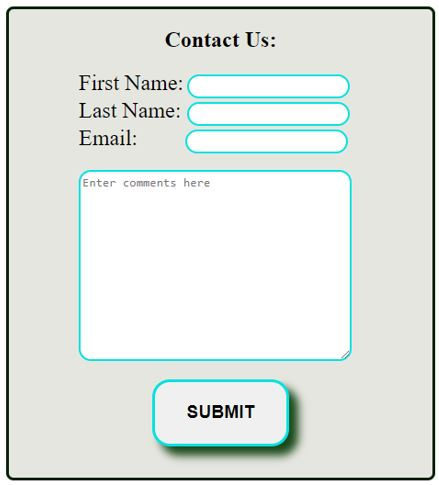
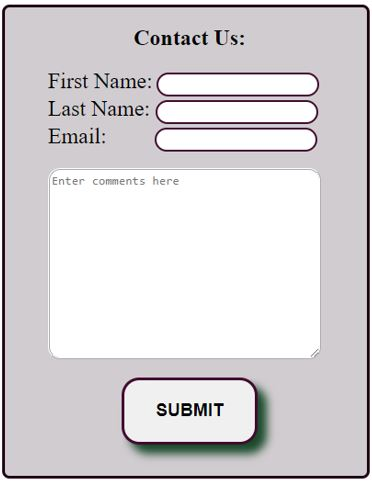
Added table project, removed old portfolio img

diff --git a/Table_Project/index.html b/Table_Project/index.html
@@ -1,0 +1,62 @@
+<!DOCTYPE html>
+<html lang="en">
+<head>
+    <meta charset="UTF-8">
+    <meta name="viewport" content="width=device-width, initial-scale=1.0">
+    <title>Low FODMAP Foods Table</title>
+    <link rel="stylesheet" href="style.css">
+</head>
+
+<body>
+    <h1>Favorite Low-FODMAP Foods</h1>
+    
+    <table>
+        <tr>
+            <th scope="row" class="group">Food Group</th>
+            <th>Examples</th>
+            <th>Notes</th>
+        </tr>
+
+        <tr>
+            <td class="group">Vegetables</td>
+            <td>Cucumbers, carrots, red peppers, potatoes, green beans, zucchini, lettuce</td>
+            <td class="note">Spring onions are allowed but only the green leafy parts in small amounts.</td>
+        </tr>
+
+        <tr class="even">
+            <td class="group">Fruits</td>
+            <td>Cantaloupe, strawberries, oranges, grapes, blueberries, bananas</td>
+            <td class="note">Fresh fruit, not canned. Keep quantities small.</td>
+        </tr>
+        <tr>
+            <td class="group">Nuts and Seeds</td>
+            <td>Almonds, peanuts, walnuts</td>
+            <td class="note">Serving size: 10 nuts</td>
+        </tr>
+        
+        <tr class="even">
+            <td class="group">Proteins</td>
+            <td>Beef, chicken, fish, pork, eggs</td>
+            <td class="note">Added sauces make these high FODMAP. Most spices okay, but never onion or garlic.</td>
+        </tr>
+
+        <tr>
+            <td class="group">Dairy</td>
+            <td>Hard cheeses, lactose-free milk and yogurt</td>
+            <td class="note">Lactose may cause same symptoms as high FODMAP foods.</td>
+        </tr>
+
+        <tr class="even">
+            <td class="group">Grains</td>
+            <td>Gluten-free pasta and bread, quinoa, corn flour, rice and rice flour, sorghum</td>
+            <td class="note">Wheat/gluten may cause same symptoms as high FODMAP foods.</td>
+        </tr>
+
+        <tr>
+            <td colspan="3">Other acceptable foods include oils, sugar as opposed to honey, and real maple syrup, all in small quantitites.</td>
+        </tr>
+
+
+    </table>
+</body>
+</html>

diff --git a/Table_Project/style.css b/Table_Project/style.css
@@ -1,0 +1,91 @@
+/* Universal Styles */
+* {
+    box-sizing: border-box;
+    margin: 0;
+    padding: 0;
+}
+
+html {
+    font-size: 16px;
+    background-color: hsl(0, 0%, 98%);
+    color: hsl(180, 48%, 5%);
+}
+
+/* Body Styling */
+
+h1 {
+    text-align: center;
+    margin: 2rem 0rem;
+    font-family: Arial, "sans serif";
+}
+
+/* Table Styling */
+
+table {
+    display: flex;
+    justify-content: center;
+    border: 0.2rem solid hsl(0, 0%, 6%);
+    margin: 0% 20%;
+    
+}
+
+th {
+    border: 0.2rem solid hsl(180, 84%, 7%);
+    text-transform: uppercase;
+    padding: 1rem;
+    background-color: hsla(180, 56%, 35%, 0.3);
+    font-size: 1.3rem;
+    font-family: Arial, "sans serif";
+}
+
+.even {
+    background-color:hsl(180, 43%, 85%);
+}
+
+td {
+    padding: 0.75rem;
+}
+
+.group {
+    width: 20%;
+    font-weight: bold;
+    text-transform: uppercase;
+    font-family: Arial, "sans serif";
+}
+
+.example {
+    width: 30%;
+    line-height: 1.3rem;
+}
+
+.note {
+    width: 30%;
+    font-style: italic;
+    line-height: 1.3rem;
+}
+
+/* Media Queries */
+
+@media only screen and (max-width: 670px) {
+    table {
+        margin: 0;
+    }
+}
+
+@media only screen and (max-width: 400px) {
+    table {
+        margin: 0;
+    }
+
+    th {
+        font-size: 1rem;
+    }
+
+    td {
+        font-size: 0.8rem;
+    }
+
+    .example {
+        width: 15%;
+    }
+}

diff --git a/Contact_Form/style.css b/Contact_Form/style.css
@@ -10,14 +10,15 @@ body {
 section {
     display: flex;
     flex-wrap: wrap;
-    width: 30%;
+    /* width: 60%; */
     height: auto;
-    border: 0.2em solid  hsl(120, 78%, 7%);
+    border: 0.2em solid  hsl(320, 78%, 7%);
     border-radius: 0.5em;
     justify-content: center;
     align-items: center;
-    margin-left: 25%;
-    background-color: hsl(60, 11%, 89%);
+    margin-left: 0%;
+    background-color: hsl(320, 6%, 81%);
+    padding-left: 0.5em;
 }
 
 h1 {
@@ -48,7 +49,7 @@ h1 {
 }
 
 .send {
-    box-shadow: 0.5em 0.5em 0.5em hsl(120, 49%, 19%);
+    box-shadow: 0.5em 0.5em 0.5em hsl(140, 49%, 19%);
     padding: 1em 1.8em;
     font-size: 1.2em;
     font-weight: bold;
@@ -56,7 +57,7 @@ h1 {
 
 .send:hover, input:hover, textarea:hover {
     color:black;
-    border: 0.2em ridge black;
+    border: 0.2em ridge white;
     
 }
 
@@ -66,7 +67,7 @@ h1 {
 
 
 input, textarea {
-    border: 0.2em solid hsl(180, 96%, 45%);
+    border: 0.2em solid hsl(320, 73%, 15%);
     border-radius: 1em;
     line-height: 1.5em;
 }

diff --git a/mobileindex.html b/mobileindex.html
@@ -66,9 +66,9 @@
 
                 <article class="photo-3">
                     <figure>
-                        <a href="Portfolio_Mary_Brylski/index.html"><img class="project-3" src="NonResponsivePortfolio.jpg" alt=""></a>
-                        <figcaption>Nonresponsive Portfolio for Desktop <br>
-                            Features: Box Model, Multipage, monochromatic color scheme. </figcaption>
+                        <a href="Table_Project/index.html"><img class="project-3" src="table.jpg" alt=""></a>
+                        <figcaption>Low FODMAP Foods Table<br>
+                            Features: HTML table, CSS styling, Flexbox. </figcaption>
                     </figure>
                 </article> 
             </section>
